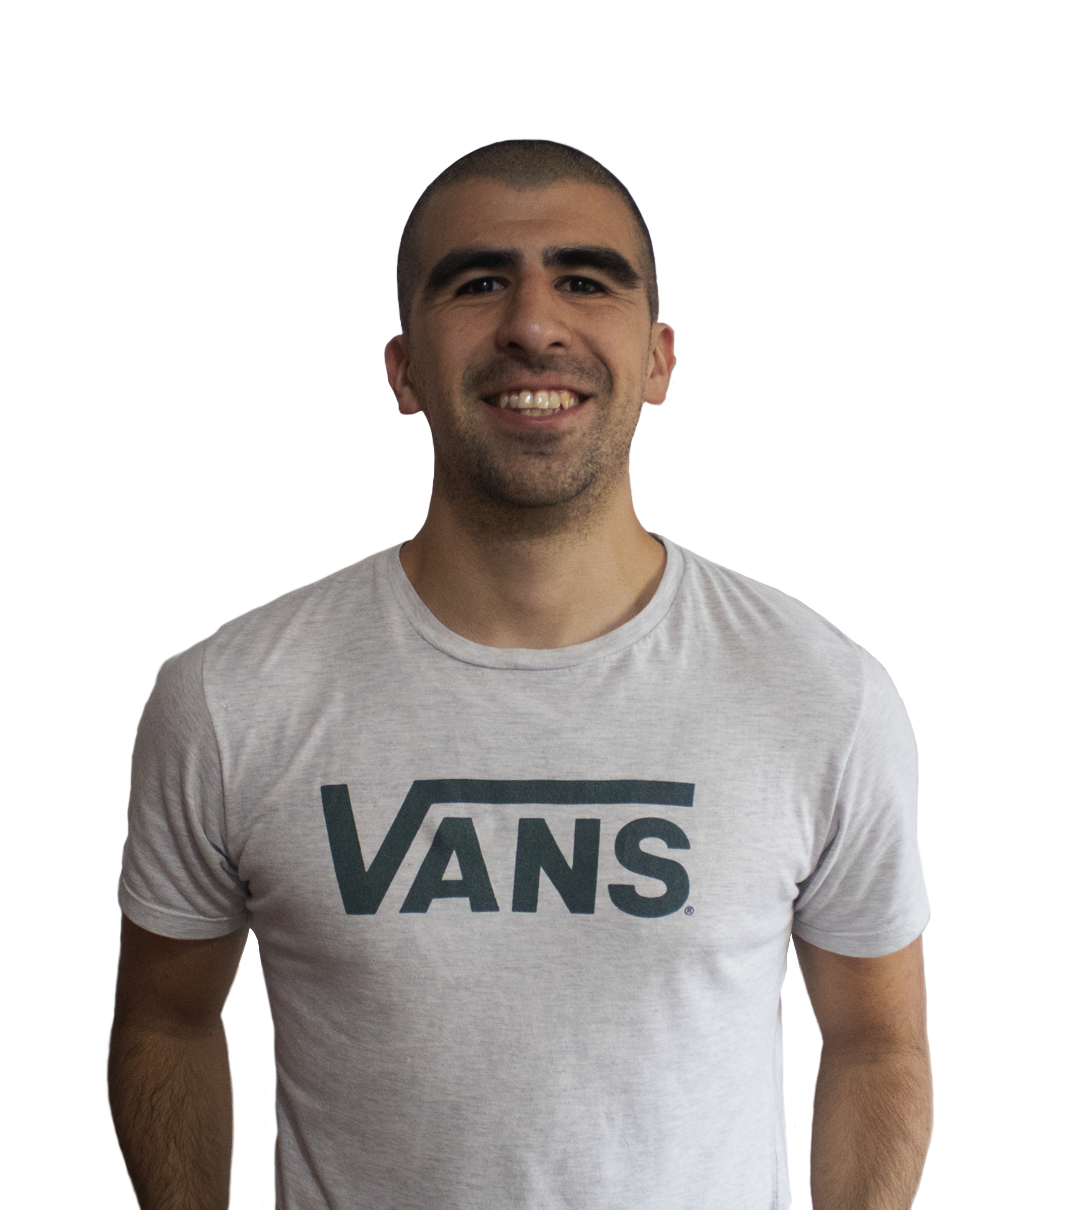
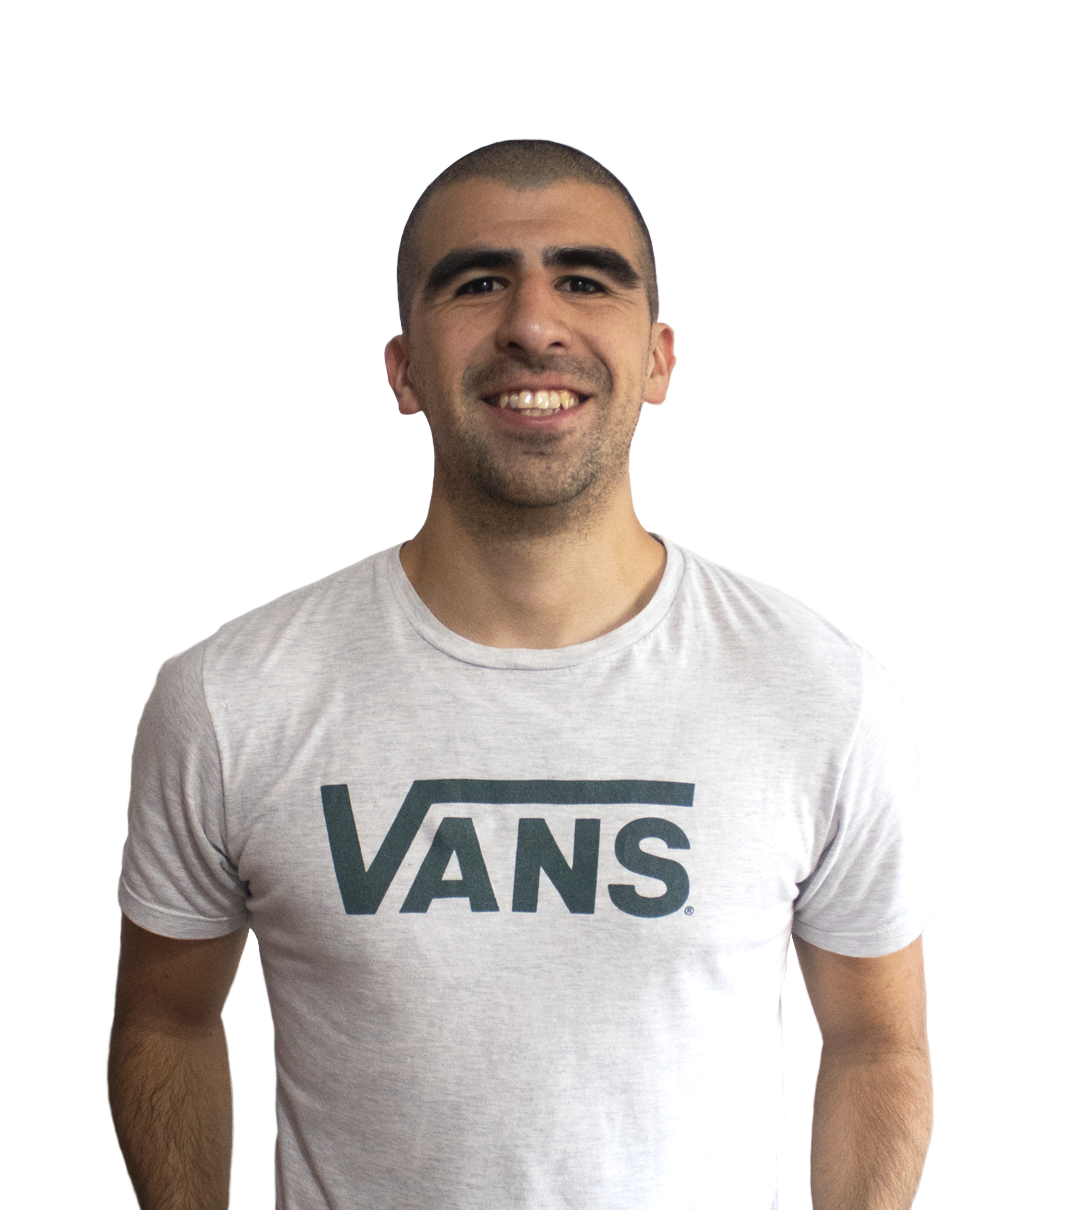
profiles
new images

diff --git a/index.html b/index.html
@@ -108,7 +108,7 @@
 			</p>
 		</div>
 		<div>
-			<img src="img/f-profile.png">
+			<img src="img/e-profile.png">
 			<p>
 				<span class="names">Elias Emiliano Mario</span><br>Productor Audiovisual <br>Editor
 			</p>
